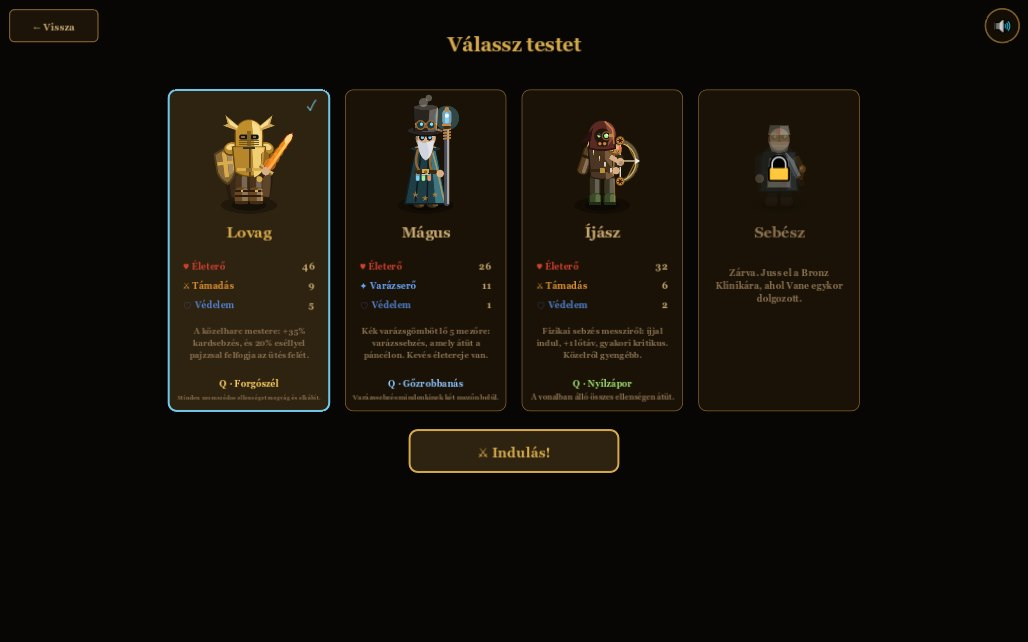
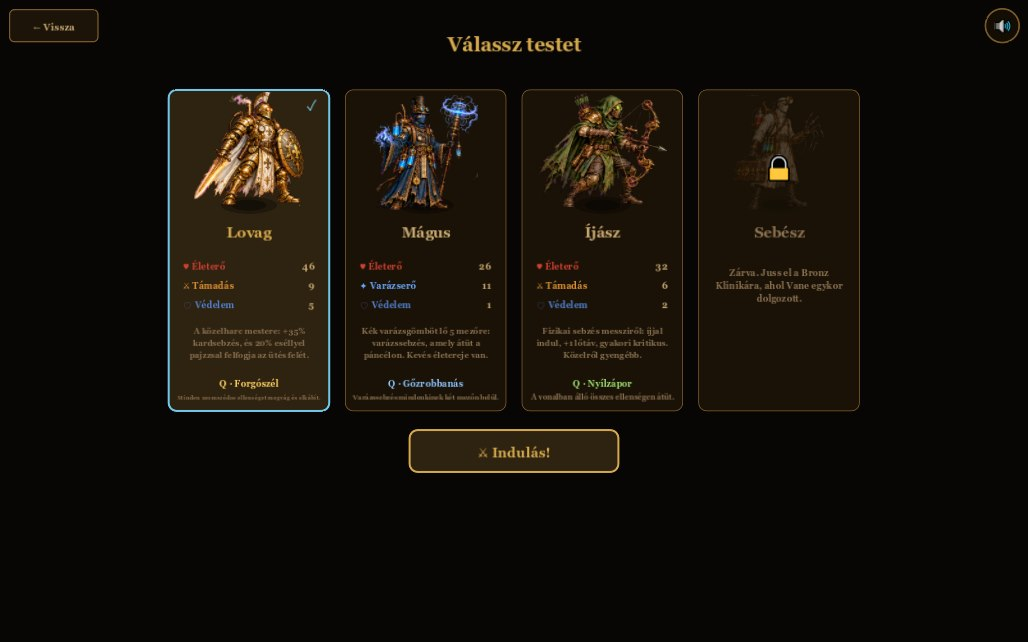
Honlap és launcher-borító: a Kard és Mágia festett figurái (4.4)

diff --git a/docs/index.html b/docs/index.html
@@ -16,7 +16,7 @@
 <meta property="og:site_name" content="ParthLauncher">
 <meta property="og:title" content="ParthLauncher – Birodalom, Heptarchia és Kard és Mágia">
 <meta property="og:description" content="Három ingyenes játék egy indítóban: angolszász nagystratégia, valós idejű birodalomépítés és roguelike kaland. Windows és macOS.">
-<meta property="og:image" content="https://parthenon2-boop.github.io/birodalom/kepek/megosztas.jpg?v=4">
+<meta property="og:image" content="https://parthenon2-boop.github.io/birodalom/kepek/megosztas.jpg?v=5">
 <meta property="og:image:width" content="1200">
 <meta property="og:image:height" content="630">
 <meta property="og:url" content="https://parthenon2-boop.github.io/birodalom/">
@@ -26,7 +26,7 @@
 <meta name="twitter:card" content="summary_large_image">
 <meta name="twitter:title" content="ParthLauncher – három ingyenes játék">
 <meta name="twitter:description" content="Angolszász nagystratégia, valós idejű birodalomépítés és roguelike kaland. Ingyenes, Windows és macOS.">
-<meta name="twitter:image" content="https://parthenon2-boop.github.io/birodalom/kepek/megosztas.jpg?v=4">
+<meta name="twitter:image" content="https://parthenon2-boop.github.io/birodalom/kepek/megosztas.jpg?v=5">
 <link rel="preconnect" href="https://fonts.googleapis.com">
 <link rel="preconnect" href="https://fonts.gstatic.com" crossorigin>
 <link href="https://fonts.googleapis.com/css2?family=Cinzel:wght@600;700&family=EB+Garamond:ital,wght@0,400;0,600;1,400&display=swap" rel="stylesheet">
@@ -235,21 +235,21 @@
 			<p class="sub" data-i18n="games.sub">Mindegyik ingyenes. A ParthLauncher magától letölti és frissíti őket.</p>
 			<div class="grid">
 				<article class="card game" id="jatek-heptarchia">
-					<button class="shot" data-full="kepek/hep_wessex.jpg?v=4" aria-label="Heptarchia"><img src="kepek/hep_wessex.jpg?v=4" alt="Heptarchia" loading="lazy" width="1024" height="720"></button>
+					<button class="shot" data-full="kepek/hep_wessex.jpg?v=5" aria-label="Heptarchia"><img src="kepek/hep_wessex.jpg?v=5" alt="Heptarchia" loading="lazy" width="1024" height="720"></button>
 					<h3><a href="heptarchia.html" style="color:inherit;text-decoration:none">Heptarchia</a></h3>
 					<span class="tag" data-i18n="games.hep.tag">Angolszász nagystratégia, 790-től</span>
 					<p data-i18n="games.hep.desc">Vezesd Wessexet, Merciát vagy Northumbriát – vagy a skótokat, piktek és írek népeit. Diplomácia, Witan, egyház, lakosság és toborzás, a vikingek érkezése – a csatákat és ostromokat pedig magad vezényled a csatamezőn.</p>
 					<span class="pill" id="ver-heptarchia">…</span>
 				</article>
 				<article class="card game" id="jatek-birodalom">
-					<button class="shot" data-full="kepek/bir_csata.jpg?v=4" aria-label="Birodalom"><img src="kepek/bir_csata.jpg?v=4" alt="Birodalom" loading="lazy" width="1028" height="720"></button>
+					<button class="shot" data-full="kepek/bir_csata.jpg?v=5" aria-label="Birodalom"><img src="kepek/bir_csata.jpg?v=5" alt="Birodalom" loading="lazy" width="1028" height="720"></button>
 					<h3><a href="birodalom.html" style="color:inherit;text-decoration:none">Birodalom</a></h3>
 					<span class="tag" data-i18n="games.bir.tag">Valós idejű stratégia, 1400 – 1945</span>
 					<p data-i18n="games.bir.desc">Építs birodalmat öt és fél évszázadon át: gazdaság, hadsereg és nagyhatalmi politika a késő középkortól a modern korig.</p>
 					<span class="pill" id="ver-birodalom">…</span>
 				</article>
 				<article class="card game" id="jatek-kard">
-					<button class="shot" data-full="kepek/borito_kard_es_magia.jpg?v=4" aria-label="Kard és Mágia"><img src="kepek/borito_kard_es_magia.jpg?v=4" alt="Kard és Mágia" loading="lazy" width="960" height="540"></button>
+					<button class="shot" data-full="kepek/borito_kard_es_magia.jpg?v=5" aria-label="Kard és Mágia"><img src="kepek/borito_kard_es_magia.jpg?v=5" alt="Kard és Mágia" loading="lazy" width="960" height="540"></button>
 					<h3><a href="kard-es-magia.html" style="color:inherit;text-decoration:none">Kard és Mágia</a></h3>
 					<span class="tag" data-i18n="games.kard.tag">Roguelike kaland · négy zóna</span>
 					<p data-i18n="games.kard.desc">Lovag, mágus vagy íjász: ereszkedj le Gorgona négy zónáján át a Belső Magig. A lovag közelharcban erős, az íjász messziről sebez, a mágus kék varázsgömböt lő. Minden pálya bejárható.</p>
@@ -264,16 +264,16 @@
 			<h2 data-i18n="shots.title">Képek a játékokból</h2>
 			<p class="sub" data-i18n="shots.sub">Kattints egy képre a nagyításhoz.</p>
 			<div class="gallery">
-				<figure><button class="shot" data-full="kepek/hep_wessex.jpg?v=4"><img src="kepek/hep_wessex.jpg?v=4" alt="Heptarchia" loading="lazy" width="1024" height="720"></button><figcaption data-i18n="shot.hep1">Heptarchia – a Brit-szigetek 790-ben</figcaption></figure>
-				<figure><button class="shot" data-full="kepek/hep_anglia.jpg?v=4"><img src="kepek/hep_anglia.jpg?v=4" alt="Heptarchia" loading="lazy" width="1024" height="720"></button><figcaption data-i18n="shot.hep2">Heptarchia – Wessex, Mercia és Kelet-Anglia</figcaption></figure>
-				<figure><button class="shot" data-full="kepek/hep_csata_lovagroham.jpg?v=4"><img src="kepek/hep_csata_lovagroham.jpg?v=4" alt="Heptarchia" loading="lazy" width="1024" height="720"></button><figcaption data-i18n="shot.hep4">Heptarchia – normann lovagroham a csatamezőn</figcaption></figure>
-				<figure><button class="shot" data-full="kepek/hep_ostrom_falon.jpg?v=4"><img src="kepek/hep_ostrom_falon.jpg?v=4" alt="Heptarchia" loading="lazy" width="1024" height="720"></button><figcaption data-i18n="shot.hep5">Heptarchia – ostrom: védők a burh sáncán</figcaption></figure>
-				<figure><button class="shot" data-full="kepek/hep_rusz.jpg?v=4"><img src="kepek/hep_rusz.jpg?v=4" alt="A varégok útja" loading="lazy" width="1024" height="720"></button><figcaption data-i18n="shot.hep3">A varégok útja – Novgorodtól Kijevig</figcaption></figure>
-				<figure><button class="shot" data-full="kepek/kard_play.jpg?v=4"><img src="kepek/kard_play.jpg?v=4" alt="Kard és Mágia" loading="lazy" width="1028" height="642"></button><figcaption data-i18n="shot.kard">Kard és Mágia – válassz hőst</figcaption></figure>
-				<figure><button class="shot" data-full="kepek/kard_bolt.jpg?v=4"><img src="kepek/kard_bolt.jpg?v=4" alt="Kard és Mágia" loading="lazy" width="1028" height="642"></button><figcaption data-i18n="shot.kardbolt">Kard és Mágia – kinézet bolt</figcaption></figure>
-				<figure><button class="shot" data-full="kepek/bir_csata.jpg?v=4"><img src="kepek/bir_csata.jpg?v=4" alt="Birodalom" loading="lazy" width="1028" height="720"></button><figcaption data-i18n="shot.bir1">Birodalom – csata a 15. században</figcaption></figure>
-				<figure><button class="shot" data-full="kepek/bir_modern.jpg?v=4"><img src="kepek/bir_modern.jpg?v=4" alt="Birodalom" loading="lazy" width="1028" height="720"></button><figcaption data-i18n="shot.bir2">Birodalom – a világháborúk kora</figcaption></figure>
-				<figure><button class="shot" data-full="kepek/bir_tenger.jpg?v=4"><img src="kepek/bir_tenger.jpg?v=4" alt="Birodalom" loading="lazy" width="1028" height="720"></button><figcaption data-i18n="shot.bir3">Birodalom – kalózvilág, saját sziget a Karib-tengeren</figcaption></figure>
+				<figure><button class="shot" data-full="kepek/hep_wessex.jpg?v=5"><img src="kepek/hep_wessex.jpg?v=5" alt="Heptarchia" loading="lazy" width="1024" height="720"></button><figcaption data-i18n="shot.hep1">Heptarchia – a Brit-szigetek 790-ben</figcaption></figure>
+				<figure><button class="shot" data-full="kepek/hep_anglia.jpg?v=5"><img src="kepek/hep_anglia.jpg?v=5" alt="Heptarchia" loading="lazy" width="1024" height="720"></button><figcaption data-i18n="shot.hep2">Heptarchia – Wessex, Mercia és Kelet-Anglia</figcaption></figure>
+				<figure><button class="shot" data-full="kepek/hep_csata_lovagroham.jpg?v=5"><img src="kepek/hep_csata_lovagroham.jpg?v=5" alt="Heptarchia" loading="lazy" width="1024" height="720"></button><figcaption data-i18n="shot.hep4">Heptarchia – normann lovagroham a csatamezőn</figcaption></figure>
+				<figure><button class="shot" data-full="kepek/hep_ostrom_falon.jpg?v=5"><img src="kepek/hep_ostrom_falon.jpg?v=5" alt="Heptarchia" loading="lazy" width="1024" height="720"></button><figcaption data-i18n="shot.hep5">Heptarchia – ostrom: védők a burh sáncán</figcaption></figure>
+				<figure><button class="shot" data-full="kepek/hep_rusz.jpg?v=5"><img src="kepek/hep_rusz.jpg?v=5" alt="A varégok útja" loading="lazy" width="1024" height="720"></button><figcaption data-i18n="shot.hep3">A varégok útja – Novgorodtól Kijevig</figcaption></figure>
+				<figure><button class="shot" data-full="kepek/kard_play.jpg?v=5"><img src="kepek/kard_play.jpg?v=5" alt="Kard és Mágia" loading="lazy" width="1028" height="642"></button><figcaption data-i18n="shot.kard">Kard és Mágia – válassz hőst</figcaption></figure>
+				<figure><button class="shot" data-full="kepek/kard_bolt.jpg?v=5"><img src="kepek/kard_bolt.jpg?v=5" alt="Kard és Mágia" loading="lazy" width="1028" height="642"></button><figcaption data-i18n="shot.kardbolt">Kard és Mágia – kinézet bolt</figcaption></figure>
+				<figure><button class="shot" data-full="kepek/bir_csata.jpg?v=5"><img src="kepek/bir_csata.jpg?v=5" alt="Birodalom" loading="lazy" width="1028" height="720"></button><figcaption data-i18n="shot.bir1">Birodalom – csata a 15. században</figcaption></figure>
+				<figure><button class="shot" data-full="kepek/bir_modern.jpg?v=5"><img src="kepek/bir_modern.jpg?v=5" alt="Birodalom" loading="lazy" width="1028" height="720"></button><figcaption data-i18n="shot.bir2">Birodalom – a világháborúk kora</figcaption></figure>
+				<figure><button class="shot" data-full="kepek/bir_tenger.jpg?v=5"><img src="kepek/bir_tenger.jpg?v=5" alt="Birodalom" loading="lazy" width="1028" height="720"></button><figcaption data-i18n="shot.bir3">Birodalom – kalózvilág, saját sziget a Karib-tengeren</figcaption></figure>
 			</div>
 		</div>
 	</section>

diff --git a/docs/kard-es-magia.html b/docs/kard-es-magia.html
@@ -15,10 +15,10 @@
 <meta property="og:site_name" content="ParthLauncher">
 <meta property="og:title" content="Kard és Mágia – roguelike kaland Gorgona mélyén">
 <meta property="og:description" content="Ingyenes roguelike: lovag, mágus vagy íjász, négy zóna és négy kétfázisú főellenség a lebegő város, Gorgona mélyén. Windows és macOS.">
-<meta property="og:image" content="https://parthenon2-boop.github.io/birodalom/kepek/borito_kard_es_magia.jpg?v=4">
+<meta property="og:image" content="https://parthenon2-boop.github.io/birodalom/kepek/borito_kard_es_magia.jpg?v=5">
 <meta property="og:url" content="https://parthenon2-boop.github.io/birodalom/kard-es-magia.html">
 <meta name="twitter:card" content="summary_large_image">
-<meta name="twitter:image" content="https://parthenon2-boop.github.io/birodalom/kepek/borito_kard_es_magia.jpg?v=4">
+<meta name="twitter:image" content="https://parthenon2-boop.github.io/birodalom/kepek/borito_kard_es_magia.jpg?v=5">
 <link rel="preconnect" href="https://fonts.googleapis.com">
 <link rel="preconnect" href="https://fonts.gstatic.com" crossorigin>
 <link href="https://fonts.googleapis.com/css2?family=Cinzel:wght@600;700&family=EB+Garamond:ital,wght@0,400;0,600;1,400&display=swap" rel="stylesheet">
@@ -168,15 +168,15 @@
 		<div class="wrap">
 			<h2 data-i18n="shots.title">Képek</h2>
 			<div class="grid">
-				<figure><button class="shot" type="button" data-full="kepek/borito_kard_es_magia.jpg?v=4"><img src="kepek/borito_kard_es_magia.jpg?v=4" alt="Kard és Mágia – borítókép a három hőssel" loading="lazy" width="960" height="540"></button><figcaption data-i18n="s1">A három hős</figcaption></figure>
-				<figure><button class="shot" type="button" data-full="kepek/kard_menu.jpg?v=4"><img src="kepek/kard_menu.jpg?v=4" alt="Kard és Mágia – főmenü" loading="lazy" width="1028" height="642"></button><figcaption data-i18n="s2">A főmenü</figcaption></figure>
-				<figure><button class="shot" type="button" data-full="kepek/kard_play.jpg?v=4"><img src="kepek/kard_play.jpg?v=4" alt="Kard és Mágia – hősválasztó" loading="lazy" width="1028" height="642"></button><figcaption data-i18n="s3">Válassz hőst</figcaption></figure>
-				<figure><button class="shot" type="button" data-full="kepek/kard_bolt.jpg?v=4"><img src="kepek/kard_bolt.jpg?v=4" alt="Kard és Mágia – kinézet bolt" loading="lazy" width="1028" height="642"></button><figcaption data-i18n="s4">A kinézet bolt</figcaption></figure>
-				<figure><button class="shot" type="button" data-full="kepek/kard_harc.jpg?v=4"><img src="kepek/kard_harc.jpg?v=4" alt="Kard és Mágia – főellenség: Karel Doktor" loading="lazy" width="1028" height="642"></button><figcaption data-i18n="s5">Főellenség: a pirosan villogó mezők egy kör múlva robbannak</figcaption></figure>
-				<figure><button class="shot" type="button" data-full="kepek/kard_zona.jpg?v=4"><img src="kepek/kard_zona.jpg?v=4" alt="Kard és Mágia – a Tüdő-Kert" loading="lazy" width="1028" height="642"></button><figcaption data-i18n="s6">Négy zóna, mind saját színvilággal</figcaption></figure>
-				<figure><button class="shot" type="button" data-full="kepek/kard_intro.jpg?v=4"><img src="kepek/kard_intro.jpg?v=4" alt="Kard és Mágia – a bevezető: Gorgona" loading="lazy" width="1028" height="642"></button><figcaption data-i18n="s7">Gorgona, a lebegő város – a történet bevezetője</figcaption></figure>
-				<figure><button class="shot" type="button" data-full="kepek/kard_muterem.jpg?v=4"><img src="kepek/kard_muterem.jpg?v=4" alt="Kard és Mágia – a Műtőterem" loading="lazy" width="1028" height="642"></button><figcaption data-i18n="s8">A Műtőterem: állandó fejlesztések két kaland között</figcaption></figure>
-				<figure><button class="shot" type="button" data-full="kepek/kard_mentesek.jpg?v=4"><img src="kepek/kard_mentesek.jpg?v=4" alt="Kard és Mágia – mentések" loading="lazy" width="1028" height="642"></button><figcaption data-i18n="s9">Több mentés, a fiókodhoz kötve</figcaption></figure>
+				<figure><button class="shot" type="button" data-full="kepek/borito_kard_es_magia.jpg?v=5"><img src="kepek/borito_kard_es_magia.jpg?v=5" alt="Kard és Mágia – borítókép a három hőssel" loading="lazy" width="960" height="540"></button><figcaption data-i18n="s1">A három hős</figcaption></figure>
+				<figure><button class="shot" type="button" data-full="kepek/kard_menu.jpg?v=5"><img src="kepek/kard_menu.jpg?v=5" alt="Kard és Mágia – főmenü" loading="lazy" width="1028" height="642"></button><figcaption data-i18n="s2">A főmenü</figcaption></figure>
+				<figure><button class="shot" type="button" data-full="kepek/kard_play.jpg?v=5"><img src="kepek/kard_play.jpg?v=5" alt="Kard és Mágia – hősválasztó" loading="lazy" width="1028" height="642"></button><figcaption data-i18n="s3">Válassz hőst</figcaption></figure>
+				<figure><button class="shot" type="button" data-full="kepek/kard_bolt.jpg?v=5"><img src="kepek/kard_bolt.jpg?v=5" alt="Kard és Mágia – kinézet bolt" loading="lazy" width="1028" height="642"></button><figcaption data-i18n="s4">A kinézet bolt</figcaption></figure>
+				<figure><button class="shot" type="button" data-full="kepek/kard_harc.jpg?v=5"><img src="kepek/kard_harc.jpg?v=5" alt="Kard és Mágia – főellenség: Karel Doktor" loading="lazy" width="1028" height="642"></button><figcaption data-i18n="s5">Főellenség: a pirosan villogó mezők egy kör múlva robbannak</figcaption></figure>
+				<figure><button class="shot" type="button" data-full="kepek/kard_zona.jpg?v=5"><img src="kepek/kard_zona.jpg?v=5" alt="Kard és Mágia – a Tüdő-Kert" loading="lazy" width="1028" height="642"></button><figcaption data-i18n="s6">Négy zóna, mind saját színvilággal</figcaption></figure>
+				<figure><button class="shot" type="button" data-full="kepek/kard_intro.jpg?v=5"><img src="kepek/kard_intro.jpg?v=5" alt="Kard és Mágia – a bevezető: Gorgona" loading="lazy" width="1028" height="642"></button><figcaption data-i18n="s7">Gorgona, a lebegő város – a történet bevezetője</figcaption></figure>
+				<figure><button class="shot" type="button" data-full="kepek/kard_muterem.jpg?v=5"><img src="kepek/kard_muterem.jpg?v=5" alt="Kard és Mágia – a Műtőterem" loading="lazy" width="1028" height="642"></button><figcaption data-i18n="s8">A Műtőterem: állandó fejlesztések két kaland között</figcaption></figure>
+				<figure><button class="shot" type="button" data-full="kepek/kard_mentesek.jpg?v=5"><img src="kepek/kard_mentesek.jpg?v=5" alt="Kard és Mágia – mentések" loading="lazy" width="1028" height="642"></button><figcaption data-i18n="s9">Több mentés, a fiókodhoz kötve</figcaption></figure>
 			</div>
 		</div>
 	</section>
@@ -343,7 +343,7 @@
 	"inLanguage": "hu",
 	"playMode": "SinglePlayer",
 	"applicationCategory": "Game",
-	"image": "https://parthenon2-boop.github.io/birodalom/kepek/borito_kard_es_magia.jpg?v=4",
+	"image": "https://parthenon2-boop.github.io/birodalom/kepek/borito_kard_es_magia.jpg?v=5",
 	"url": "https://parthenon2-boop.github.io/birodalom/kard-es-magia.html",
 	"downloadUrl": "https://github.com/Parthenon2-boop/birodalom/releases/latest",
 	"offers": { "@type": "Offer", "price": "0", "priceCurrency": "USD", "availability": "https://schema.org/InStock" }

diff --git a/docs/heptarchia.html b/docs/heptarchia.html
@@ -15,10 +15,10 @@
 <meta property="og:site_name" content="ParthLauncher">
 <meta property="og:title" content="Heptarchia – angolszász nagystratégia 790-től">
 <meta property="og:description" content="Ingyenes nagystratégia: Wessex, Mercia, Northumbria, a Witan, az egyház és a vikingek érkezése. Windows és macOS.">
-<meta property="og:image" content="https://parthenon2-boop.github.io/birodalom/kepek/hep_wessex.jpg?v=4">
+<meta property="og:image" content="https://parthenon2-boop.github.io/birodalom/kepek/hep_wessex.jpg?v=5">
 <meta property="og:url" content="https://parthenon2-boop.github.io/birodalom/heptarchia.html">
 <meta name="twitter:card" content="summary_large_image">
-<meta name="twitter:image" content="https://parthenon2-boop.github.io/birodalom/kepek/hep_wessex.jpg?v=4">
+<meta name="twitter:image" content="https://parthenon2-boop.github.io/birodalom/kepek/hep_wessex.jpg?v=5">
 <link rel="preconnect" href="https://fonts.googleapis.com">
 <link rel="preconnect" href="https://fonts.gstatic.com" crossorigin>
 <link href="https://fonts.googleapis.com/css2?family=Cinzel:wght@600;700&family=EB+Garamond:ital,wght@0,400;0,600;1,400&display=swap" rel="stylesheet">
@@ -133,11 +133,11 @@
 				<article class="card"><h3 data-i18n="b5.t">Élő csaták többjátékos módban</h3><p data-i18n="b5.b">Többjátékos játszmában a két fél élőben, egymás ellen vívja meg a csatát.</p></article>
 			</div>
 			<div class="grid" style="margin-top:18px">
-				<figure><img src="kepek/hep_csata_pajzsfal.jpg?v=4" data-i18n-alt="alt.b1" alt="Heptarchia csata – két pajzsfal összecsapása" loading="lazy" width="1024" height="720"><figcaption data-i18n="cs1">Pajzsfal a pajzsfal ellen</figcaption></figure>
-				<figure><img src="kepek/hep_csata_lovagroham.jpg?v=4" data-i18n-alt="alt.b2" alt="Heptarchia csata – normann lovagok rohama Senlacnál" loading="lazy" width="1024" height="720"><figcaption data-i18n="cs2">Normann lovagroham Senlacnál</figcaption></figure>
-				<figure><img src="kepek/hep_csata_les.jpg?v=4" data-i18n-alt="alt.b3" alt="Heptarchia csata – walesi dárdavetők lese az erdőből" loading="lazy" width="1024" height="720"><figcaption data-i18n="cs3">Les az erdőből: walesi dárdavetők</figcaption></figure>
-				<figure><img src="kepek/hep_ostrom_falon.jpg?v=4" data-i18n-alt="alt.b4" alt="Heptarchia ostrom – védők egy burh sáncán" loading="lazy" width="1024" height="720"><figcaption data-i18n="cs4">Védők a burh sáncán</figcaption></figure>
-				<figure><img src="kepek/hep_ostrom_kos.jpg?v=4" data-i18n-alt="alt.b5" alt="Heptarchia ostrom – faltörő kos a burh kapujánál" loading="lazy" width="1024" height="720"><figcaption data-i18n="cs5">Faltörő kos a kapunál</figcaption></figure>
+				<figure><img src="kepek/hep_csata_pajzsfal.jpg?v=5" data-i18n-alt="alt.b1" alt="Heptarchia csata – két pajzsfal összecsapása" loading="lazy" width="1024" height="720"><figcaption data-i18n="cs1">Pajzsfal a pajzsfal ellen</figcaption></figure>
+				<figure><img src="kepek/hep_csata_lovagroham.jpg?v=5" data-i18n-alt="alt.b2" alt="Heptarchia csata – normann lovagok rohama Senlacnál" loading="lazy" width="1024" height="720"><figcaption data-i18n="cs2">Normann lovagroham Senlacnál</figcaption></figure>
+				<figure><img src="kepek/hep_csata_les.jpg?v=5" data-i18n-alt="alt.b3" alt="Heptarchia csata – walesi dárdavetők lese az erdőből" loading="lazy" width="1024" height="720"><figcaption data-i18n="cs3">Les az erdőből: walesi dárdavetők</figcaption></figure>
+				<figure><img src="kepek/hep_ostrom_falon.jpg?v=5" data-i18n-alt="alt.b4" alt="Heptarchia ostrom – védők egy burh sáncán" loading="lazy" width="1024" height="720"><figcaption data-i18n="cs4">Védők a burh sáncán</figcaption></figure>
+				<figure><img src="kepek/hep_ostrom_kos.jpg?v=5" data-i18n-alt="alt.b5" alt="Heptarchia ostrom – faltörő kos a burh kapujánál" loading="lazy" width="1024" height="720"><figcaption data-i18n="cs5">Faltörő kos a kapunál</figcaption></figure>
 			</div>
 		</div>
 	</section>
@@ -160,9 +160,9 @@
 		<div class="wrap">
 			<h2 data-i18n="shots.title">Képek</h2>
 			<div class="grid">
-				<figure><img src="kepek/hep_wessex.jpg?v=4" alt="Heptarchia – a Brit-szigetek térképe 790-ben" loading="lazy" width="1024" height="720"><figcaption data-i18n="s1">A Brit-szigetek 790-ben</figcaption></figure>
-				<figure><img src="kepek/hep_anglia.jpg?v=4" alt="Heptarchia – Wessex, Mercia és Kelet-Anglia" loading="lazy" width="1024" height="720"><figcaption data-i18n="s2">Wessex, Mercia és Kelet-Anglia</figcaption></figure>
-				<figure><img src="kepek/hep_rusz.jpg?v=4" alt="A varégok útja kiegészítő – a Rusz" loading="lazy" width="1024" height="720"><figcaption data-i18n="s3">A varégok útja kiegészítő: Novgorodtól Kijevig</figcaption></figure>
+				<figure><img src="kepek/hep_wessex.jpg?v=5" alt="Heptarchia – a Brit-szigetek térképe 790-ben" loading="lazy" width="1024" height="720"><figcaption data-i18n="s1">A Brit-szigetek 790-ben</figcaption></figure>
+				<figure><img src="kepek/hep_anglia.jpg?v=5" alt="Heptarchia – Wessex, Mercia és Kelet-Anglia" loading="lazy" width="1024" height="720"><figcaption data-i18n="s2">Wessex, Mercia és Kelet-Anglia</figcaption></figure>
+				<figure><img src="kepek/hep_rusz.jpg?v=5" alt="A varégok útja kiegészítő – a Rusz" loading="lazy" width="1024" height="720"><figcaption data-i18n="s3">A varégok útja kiegészítő: Novgorodtól Kijevig</figcaption></figure>
 			</div>
 		</div>
 	</section>
@@ -355,7 +355,7 @@
 	"operatingSystem": "Windows, macOS",
 	"inLanguage": ["hu", "en", "de"],
 	"applicationCategory": "Game",
-	"image": "https://parthenon2-boop.github.io/birodalom/kepek/hep_wessex.jpg?v=4",
+	"image": "https://parthenon2-boop.github.io/birodalom/kepek/hep_wessex.jpg?v=5",
 	"url": "https://parthenon2-boop.github.io/birodalom/heptarchia.html",
 	"offers": { "@type": "Offer", "price": "0", "priceCurrency": "USD", "availability": "https://schema.org/InStock" }
 }

diff --git a/docs/birodalom.html b/docs/birodalom.html
@@ -15,10 +15,10 @@
 <meta property="og:site_name" content="ParthLauncher">
 <meta property="og:title" content="Birodalom – valós idejű stratégia 1400-tól 1945-ig">
 <meta property="og:description" content="Ingyenes valós idejű stratégia: négy korszak a késő középkortól a világháborúkig, tizenegy nemzet, kalózvilág, hadjáratok és többjátékos mód. Windows és macOS.">
-<meta property="og:image" content="https://parthenon2-boop.github.io/birodalom/kepek/bir_csata.jpg?v=4">
+<meta property="og:image" content="https://parthenon2-boop.github.io/birodalom/kepek/bir_csata.jpg?v=5">
 <meta property="og:url" content="https://parthenon2-boop.github.io/birodalom/birodalom.html">
 <meta name="twitter:card" content="summary_large_image">
-<meta name="twitter:image" content="https://parthenon2-boop.github.io/birodalom/kepek/bir_csata.jpg?v=4">
+<meta name="twitter:image" content="https://parthenon2-boop.github.io/birodalom/kepek/bir_csata.jpg?v=5">
 <link rel="preconnect" href="https://fonts.googleapis.com">
 <link rel="preconnect" href="https://fonts.gstatic.com" crossorigin>
 <link href="https://fonts.googleapis.com/css2?family=Cinzel:wght@600;700&family=EB+Garamond:ital,wght@0,400;0,600;1,400&display=swap" rel="stylesheet">
@@ -152,10 +152,10 @@
 		<div class="wrap">
 			<h2 data-i18n="shots.title">Képek</h2>
 			<div class="grid">
-				<figure><button class="shot" type="button" data-full="kepek/bir_csata.jpg?v=4"><img src="kepek/bir_csata.jpg?v=4" alt="Birodalom – csata egy 15. századi város alatt" loading="lazy" width="1028" height="720"></button><figcaption data-i18n="s1">Csata a 15. században</figcaption></figure>
-				<figure><button class="shot" type="button" data-full="kepek/bir_kozepkor.jpg?v=4"><img src="kepek/bir_kozepkor.jpg?v=4" alt="Birodalom – középkori város laktanyával" loading="lazy" width="1028" height="720"></button><figcaption data-i18n="s2">Középkori város, a laktanyában képzés folyik</figcaption></figure>
-				<figure><button class="shot" type="button" data-full="kepek/bir_modern.jpg?v=4"><img src="kepek/bir_modern.jpg?v=4" alt="Birodalom – a világháborúk kora" loading="lazy" width="1028" height="720"></button><figcaption data-i18n="s3">A világháborúk kora</figcaption></figure>
-				<figure><button class="shot" type="button" data-full="kepek/bir_tenger.jpg?v=4"><img src="kepek/bir_tenger.jpg?v=4" alt="Birodalom – sziget a kalózvilágban" loading="lazy" width="1028" height="720"></button><figcaption data-i18n="s4">Kalózvilág: saját sziget a Karib-tengeren</figcaption></figure>
+				<figure><button class="shot" type="button" data-full="kepek/bir_csata.jpg?v=5"><img src="kepek/bir_csata.jpg?v=5" alt="Birodalom – csata egy 15. századi város alatt" loading="lazy" width="1028" height="720"></button><figcaption data-i18n="s1">Csata a 15. században</figcaption></figure>
+				<figure><button class="shot" type="button" data-full="kepek/bir_kozepkor.jpg?v=5"><img src="kepek/bir_kozepkor.jpg?v=5" alt="Birodalom – középkori város laktanyával" loading="lazy" width="1028" height="720"></button><figcaption data-i18n="s2">Középkori város, a laktanyában képzés folyik</figcaption></figure>
+				<figure><button class="shot" type="button" data-full="kepek/bir_modern.jpg?v=5"><img src="kepek/bir_modern.jpg?v=5" alt="Birodalom – a világháborúk kora" loading="lazy" width="1028" height="720"></button><figcaption data-i18n="s3">A világháborúk kora</figcaption></figure>
+				<figure><button class="shot" type="button" data-full="kepek/bir_tenger.jpg?v=5"><img src="kepek/bir_tenger.jpg?v=5" alt="Birodalom – sziget a kalózvilágban" loading="lazy" width="1028" height="720"></button><figcaption data-i18n="s4">Kalózvilág: saját sziget a Karib-tengeren</figcaption></figure>
 			</div>
 		</div>
 	</section>
@@ -318,7 +318,7 @@
 	"inLanguage": ["hu", "en", "de"],
 	"playMode": ["SinglePlayer", "MultiPlayer"],
 	"applicationCategory": "Game",
-	"image": "https://parthenon2-boop.github.io/birodalom/kepek/bir_csata.jpg?v=4",
+	"image": "https://parthenon2-boop.github.io/birodalom/kepek/bir_csata.jpg?v=5",
 	"url": "https://parthenon2-boop.github.io/birodalom/birodalom.html",
 	"downloadUrl": "https://github.com/Parthenon2-boop/birodalom/releases/latest",
 	"offers": { "@type": "Offer", "price": "0", "priceCurrency": "USD", "availability": "https://schema.org/InStock" }
